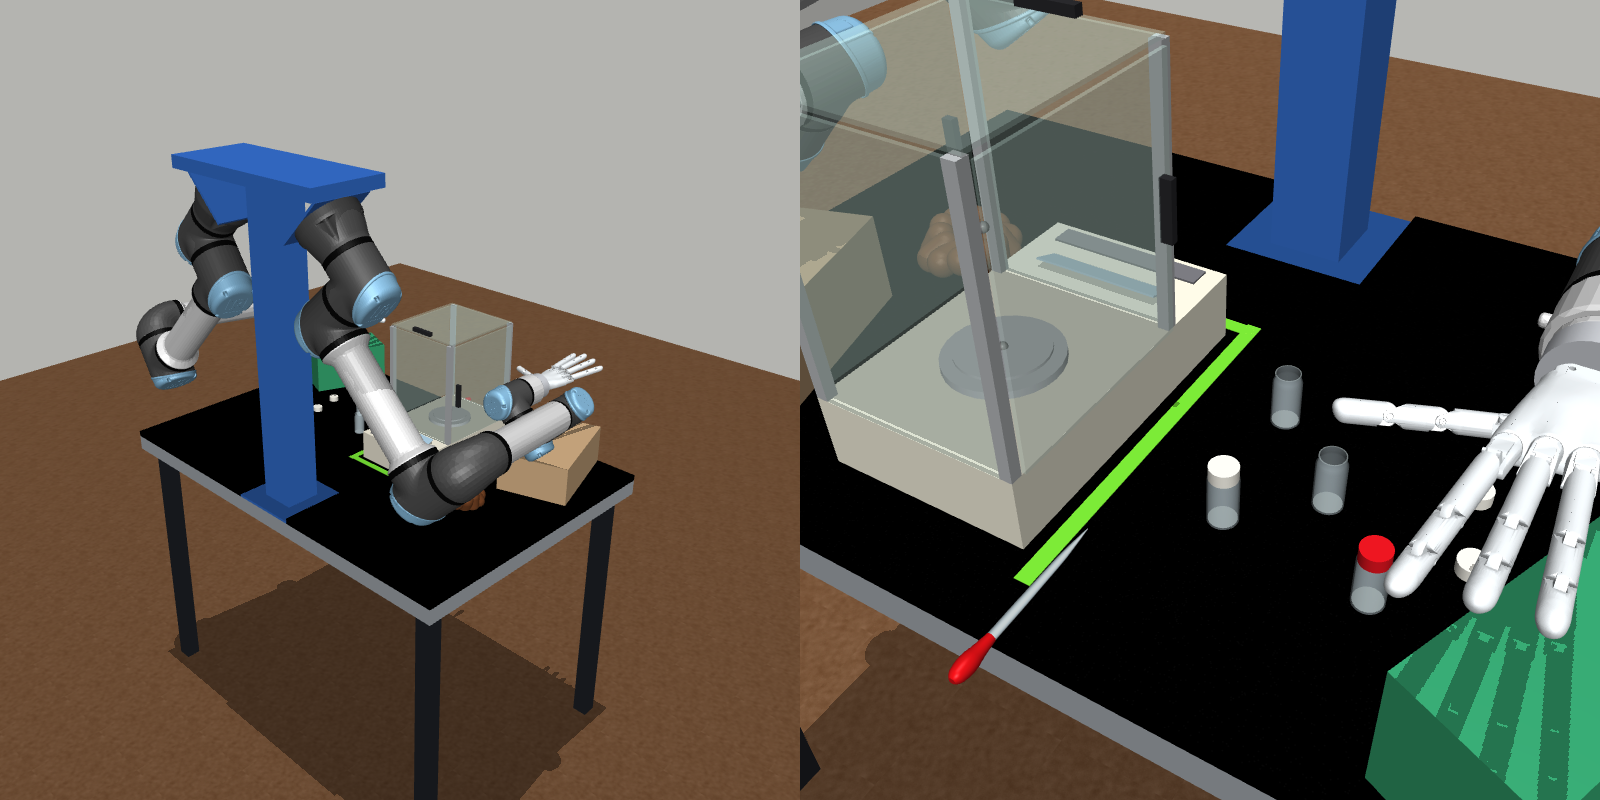
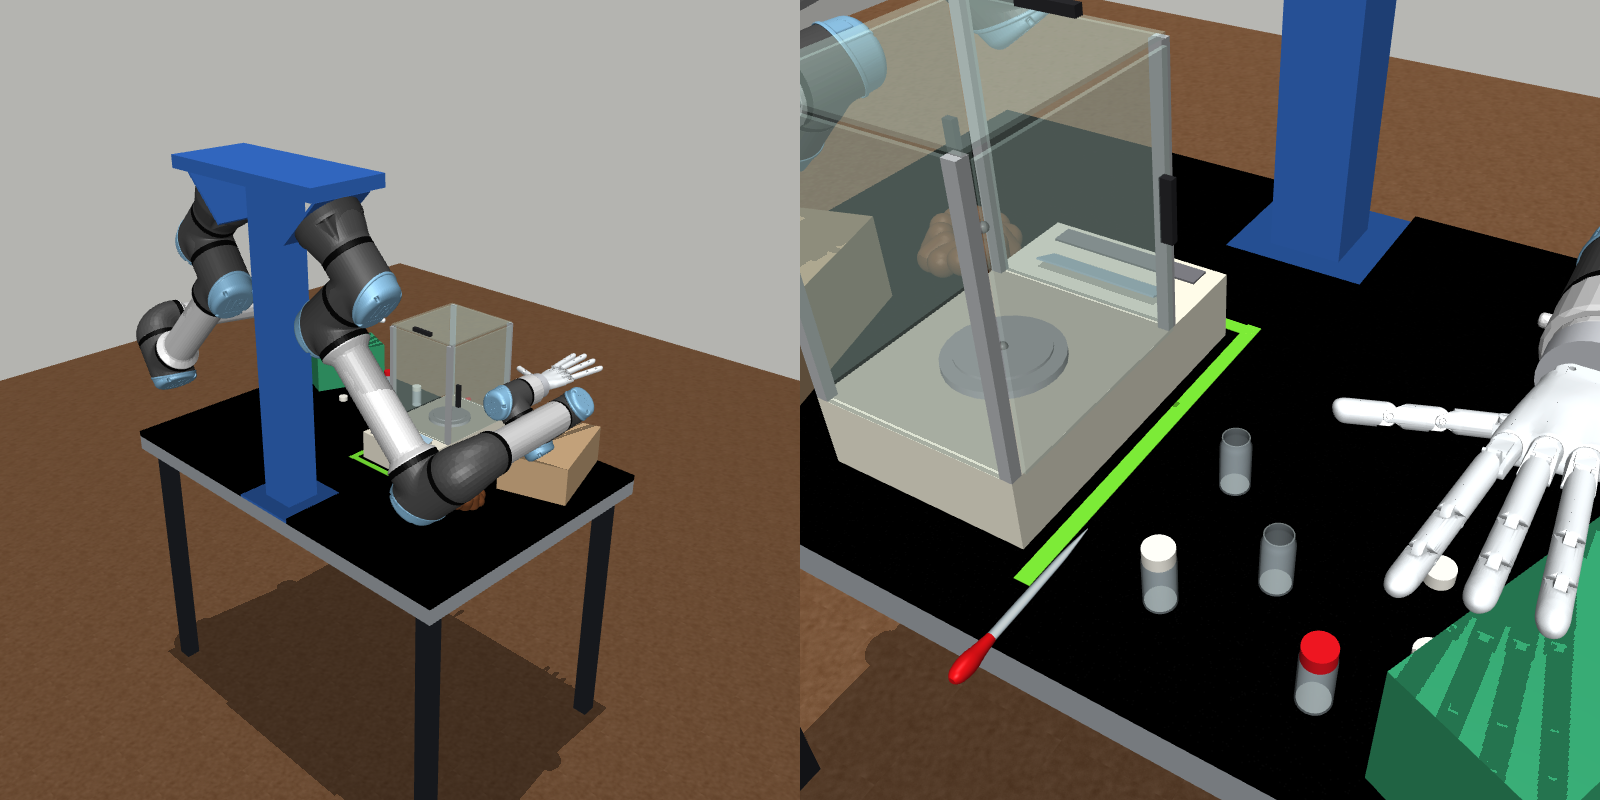
Move task-layout props 10 cm away from the gantry column
Vials and caps shift +0.10 m in y; the dropper stays put since it lies
along +y and would fall off the far bench edge. Re-rendered docs/env.png.

diff --git a/chem_rl_sim/scene.py b/chem_rl_sim/scene.py
@@ -74,13 +74,15 @@ LAYOUTS = {
     },
     # Start of the weighing step (2:50): pan empty, every vial upright on the bench
     # within both arms' reach so a policy can pick vial a and set it on the pan.
+    # Props sit 0.10 m further +y (away from the column) than first placed; the
+    # dropper stays at y=0.17 because it lies ~15 cm along +y and would fall off.
     "task": {
-        "vial_a": ("vial_20ml_open", (-0.12, -0.04, _BENCH), Q_UP),
-        "vial_b": ("vial_20ml_open", (-0.20, 0.04, _BENCH), Q_UP),
-        "vial_c": ("vial_20ml_whitecap", (-0.13, 0.10, _BENCH), Q_UP),
-        "vial_red": ("vial_20ml_redcap", (-0.27, 0.12, _BENCH), Q_UP),
-        "cap_1": ("cap_24_400_white", (-0.31, -0.03, _BENCH), Q_UP),
-        "cap_2": ("cap_24_400_white", (-0.33, 0.05, _BENCH), Q_UP),
+        "vial_a": ("vial_20ml_open", (-0.12, 0.06, _BENCH), Q_UP),
+        "vial_b": ("vial_20ml_open", (-0.20, 0.14, _BENCH), Q_UP),
+        "vial_c": ("vial_20ml_whitecap", (-0.13, 0.20, _BENCH), Q_UP),
+        "vial_red": ("vial_20ml_redcap", (-0.27, 0.22, _BENCH), Q_UP),
+        "cap_1": ("cap_24_400_white", (-0.31, 0.07, _BENCH), Q_UP),
+        "cap_2": ("cap_24_400_white", (-0.33, 0.15, _BENCH), Q_UP),
         "dropper": ("pasteur_dropper", (-0.04, 0.17, _BENCH + DROPPER_TIP_R), Q_LIE_Y),
     },
 }
